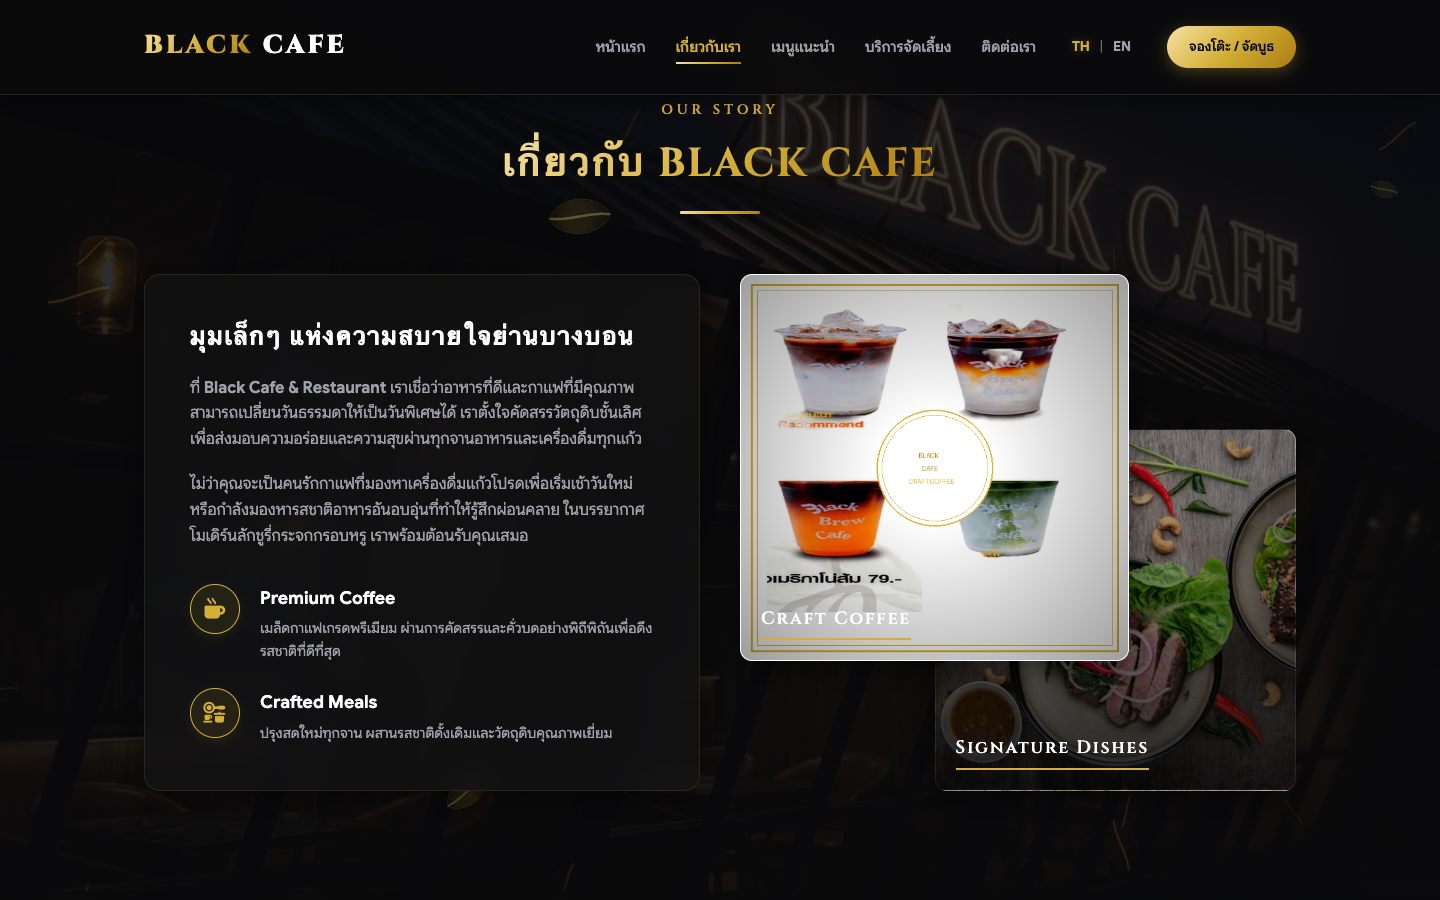
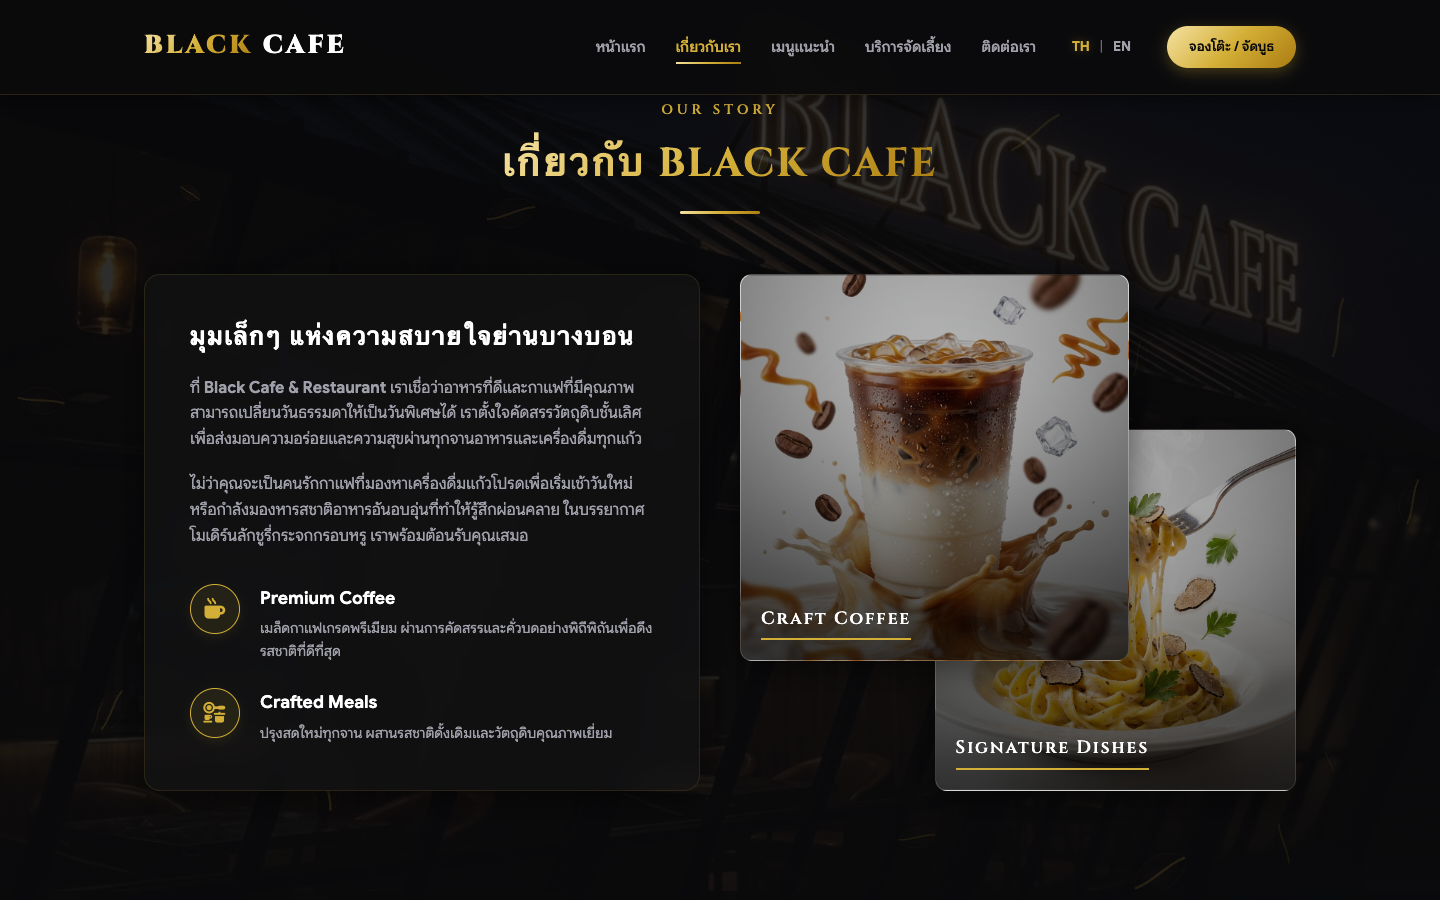
Update About Us gallery images and screenshots

Changed region(s): [[0.5, 0.28, 0.9062, 0.9022], [0.375, 0.2178, 0.4062, 0.28]]

diff --git a/style.css b/style.css
@@ -552,7 +552,7 @@ ul {
     height: 75%;
     top: 0;
     left: 0;
-    background-image: url('assets/coffee_ad.png');
+    background-image: linear-gradient(rgba(0,0,0,0.1), rgba(0,0,0,0.7)), url('assets/coffee_macchiato.png');
     z-index: 2;
 }
 
@@ -561,7 +561,7 @@ ul {
     height: 70%;
     bottom: 0;
     right: 0;
-    background-image: linear-gradient(rgba(0,0,0,0.1), rgba(0,0,0,0.8)), url('https://images.unsplash.com/photo-1504674900247-0877df9cc836?auto=format&fit=crop&q=80&w=600');
+    background-image: linear-gradient(rgba(0,0,0,0.1), rgba(0,0,0,0.7)), url('assets/pasta_truffle.png');
     z-index: 1;
 }
 
